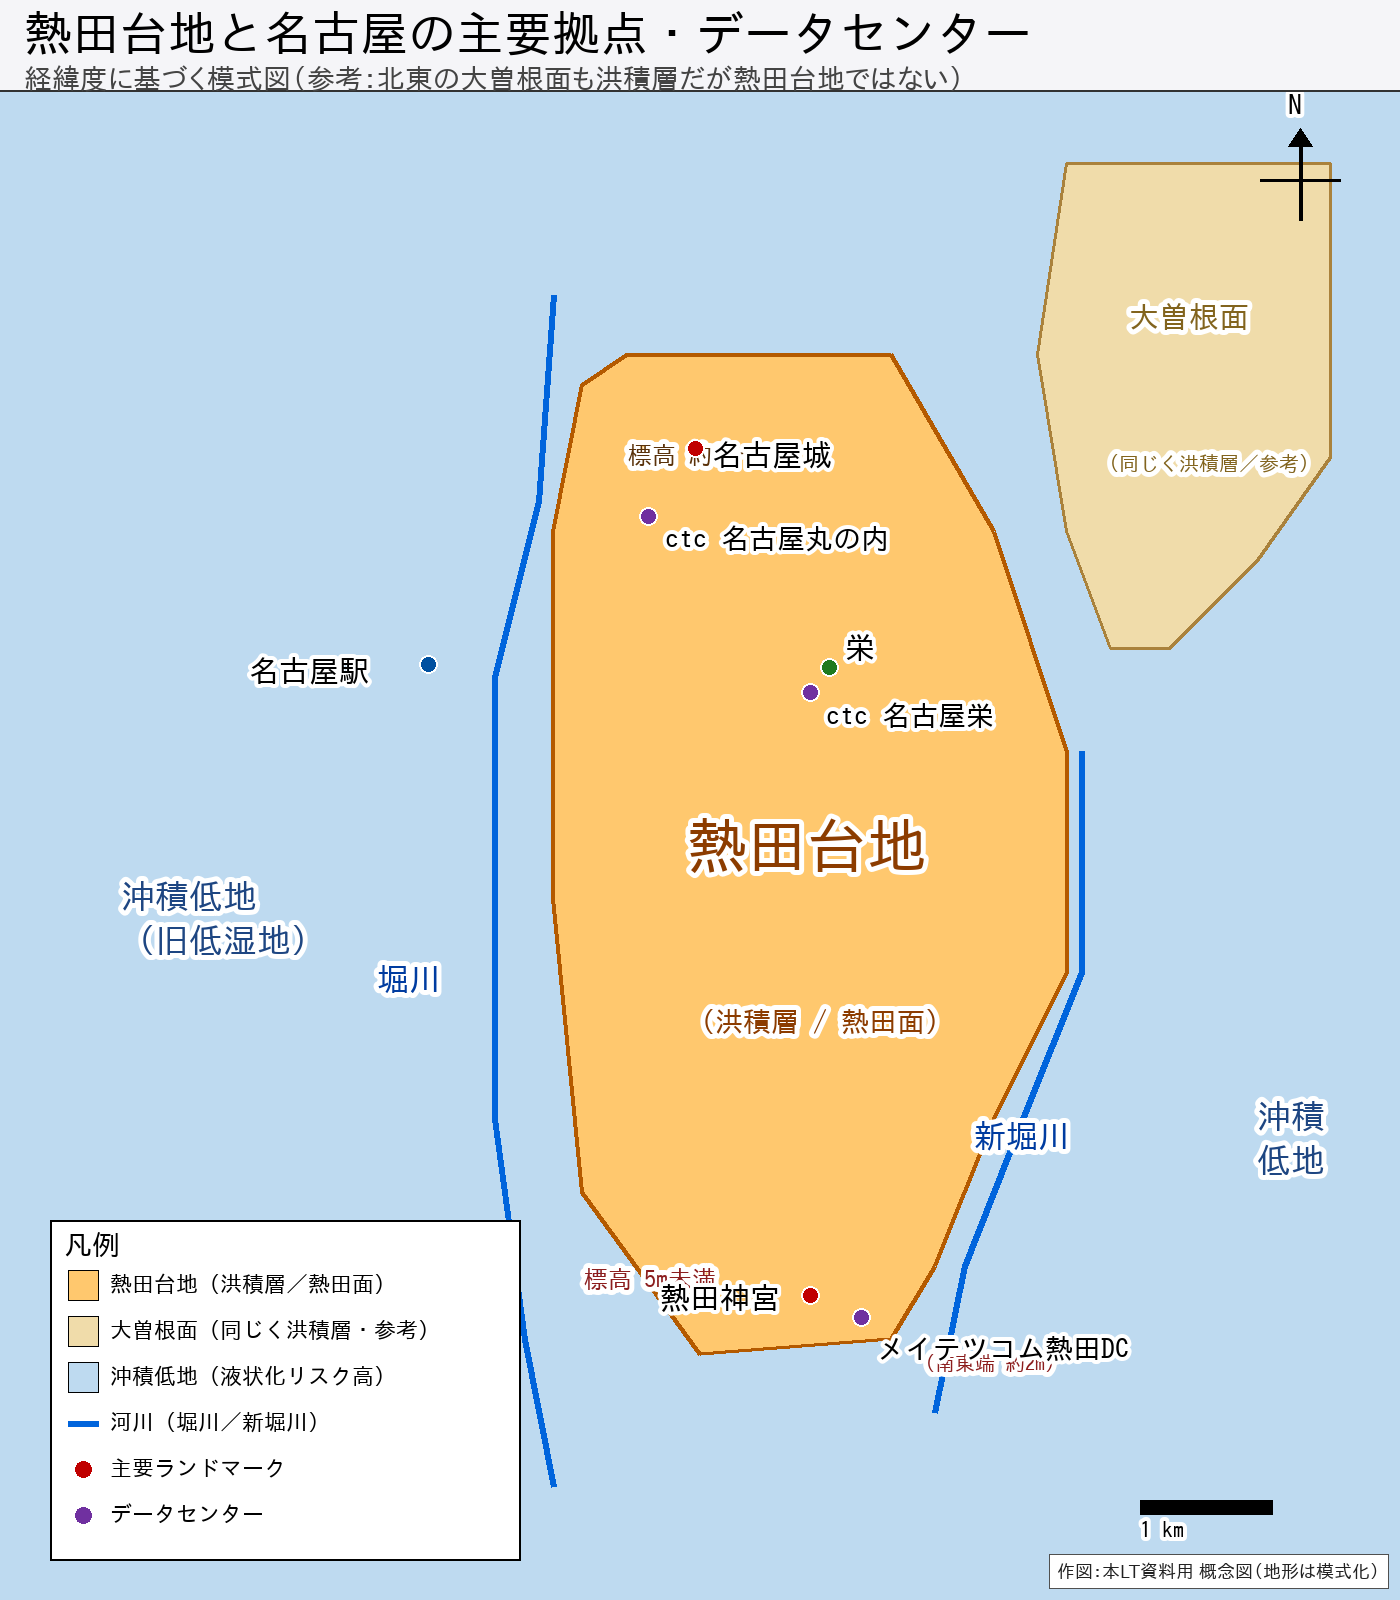
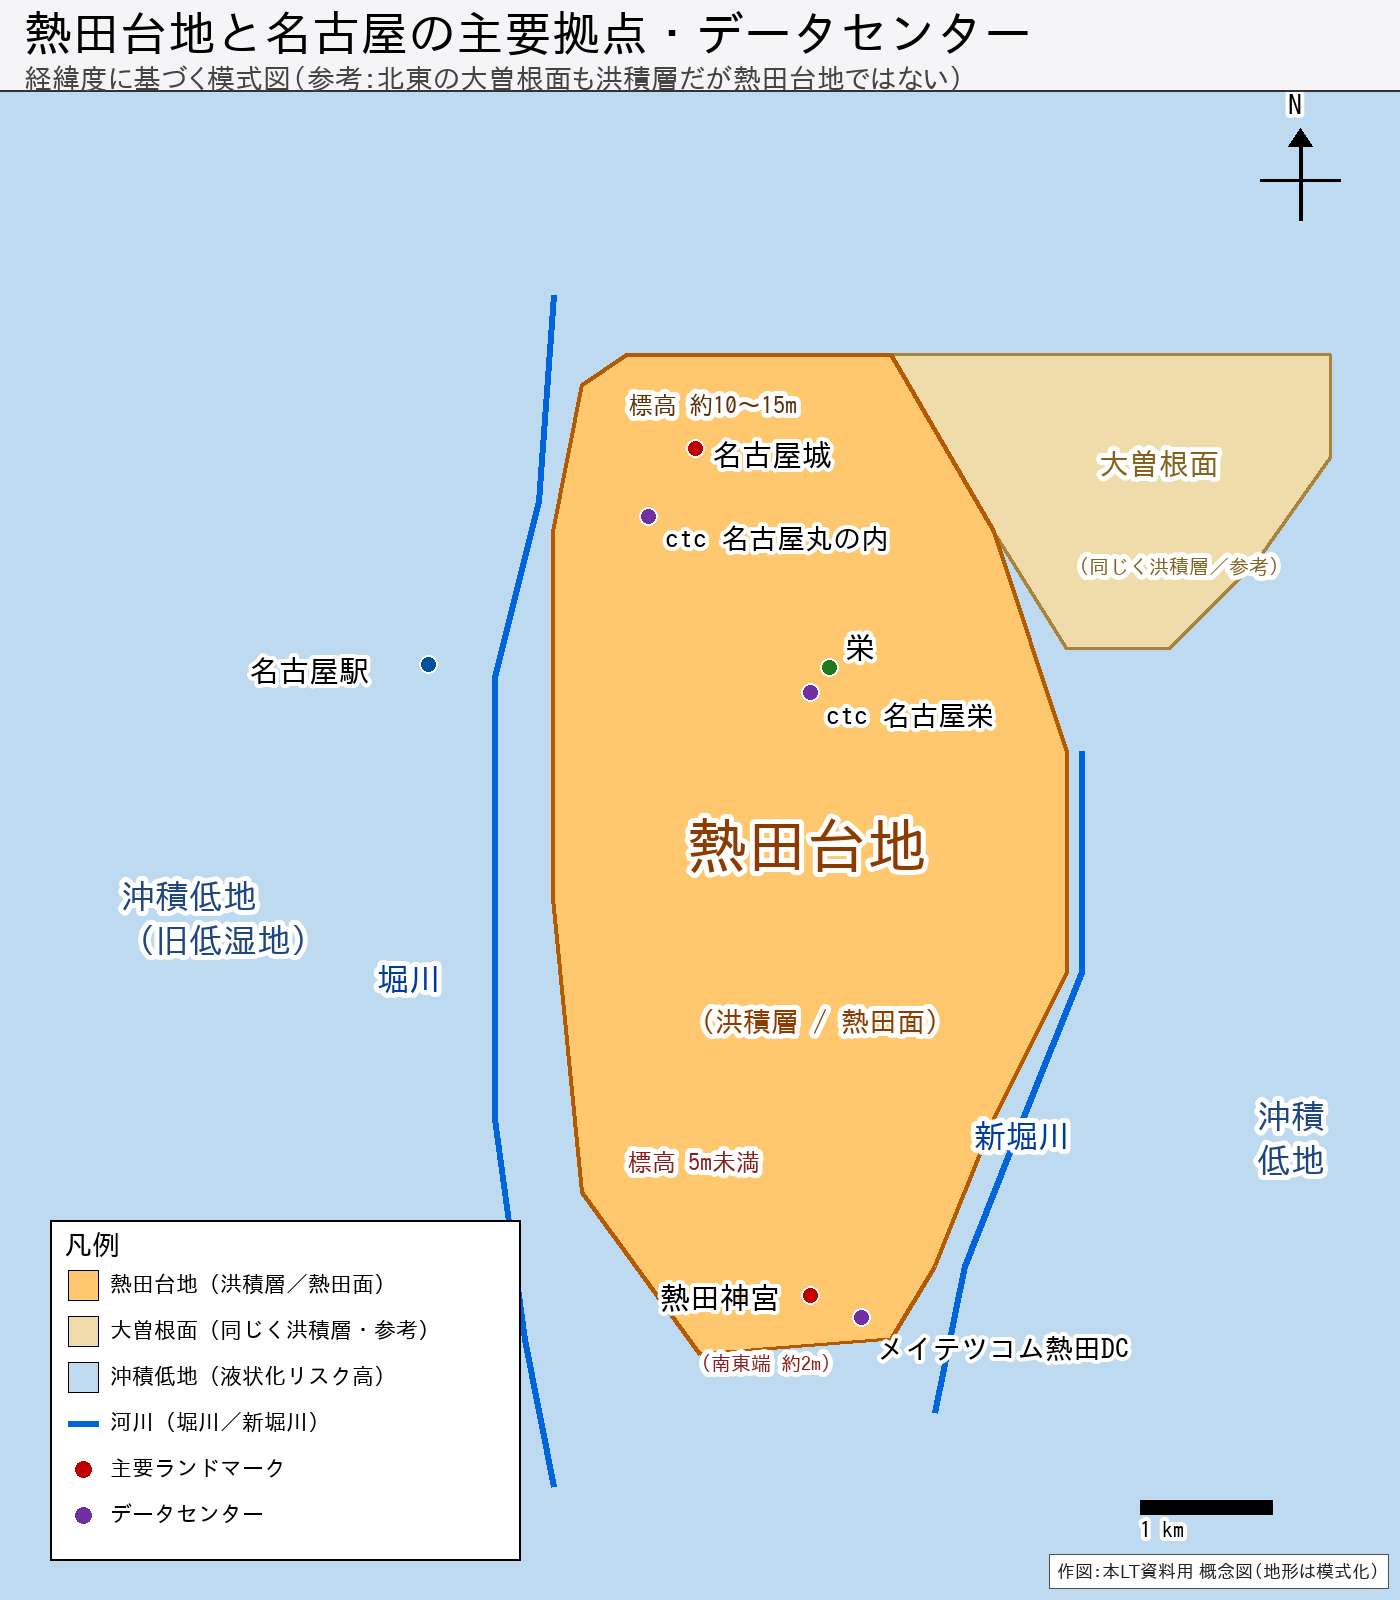
地図修正：大曽根面を熱田台地に隣接させ、標高ラベルの重なりを解消
- OZONE_POLYGON を熱田台地NE角 (35.192, 136.913) から接続させ、
  大曽根面の北端ラインを熱田台地の北端（lat 35.192）と揃える
- 大曽根面ラベルをポリゴン内中央付近に移動
- 標高表示ラベル（約10〜15m / 5m未満 / 南東端 約2m）の位置を
  ランドマーク・DCラベルと重ならない位置に再配置

https://claude.ai/code/session_01AiUGM1aSD6c23eo2xiZBRn

diff --git a/scripts/generate_maps.py b/scripts/generate_maps.py
@@ -78,15 +78,16 @@ PLATEAU_POLYGON = [
 ]
 
 # 大曽根面（熱田台地ではないが、同じく洪積層）— 参考として淡色で表示
+# 熱田台地（熱田面）のNE角 (35.192, 136.913) と接するように設定。
+# 北端ラインは熱田台地の北端 (lat 35.192) と同じ。
 OZONE_POLYGON = [
-    (35.205, 136.925),
-    (35.205, 136.943),
+    (35.192, 136.913),   # 熱田台地NE角と共有（接点）
+    (35.192, 136.943),   # 北端（熱田台地と同じ緯度）
     (35.185, 136.943),
     (35.178, 136.938),
     (35.172, 136.932),
-    (35.172, 136.928),
-    (35.180, 136.925),
-    (35.192, 136.923),
+    (35.172, 136.925),
+    (35.180, 136.920),   # 熱田台地東側境界上の点と共有
 ]
 
 LANDMARKS = [
@@ -222,20 +223,23 @@ def render_topographic_map():
     draw_label(draw, 35.150, 136.908, "（洪積層 / 熱田面）",
                get_font(28, bold=True), (140, 60, 0), offset=(-130, 35))
 
-    # 大曽根面ラベル（熱田台地ではない、参考表示）
-    draw_label(draw, 35.195, 136.934, "大曽根面",
+    # 大曽根面ラベル（熱田台地ではない、参考表示）— ポリゴン内中央付近に配置
+    draw_label(draw, 35.185, 136.932, "大曽根面",
                get_font(30, bold=True), (130, 100, 30), offset=(-70, -10))
-    draw_label(draw, 35.187, 136.934, "（同じく洪積層／参考）",
+    draw_label(draw, 35.180, 136.932, "（同じく洪積層／参考）",
                get_font(20, bold=True), (130, 100, 30), offset=(-100, 25))
 
-    # 標高表示（台地内・北部 / 南部）
+    # 標高表示（台地内・北部 / 南部）— ランドマークラベルと重ならない位置に配置
     elev_font = get_font(24, bold=True)
-    draw_label(draw, 35.183, 136.905, "標高 約10〜15m",
-               elev_font, (90, 50, 10), offset=(-145, -45))
-    draw_label(draw, 35.130, 136.902, "標高 5m未満",
+    # 北部：名古屋城・ctcラベルより上（北端近く）に配置
+    draw_label(draw, 35.190, 136.904, "標高 約10〜15m",
+               elev_font, (90, 50, 10), offset=(-130, 8))
+    # 南部：熱田神宮ラベルより上の中央付近に配置
+    draw_label(draw, 35.138, 136.905, "標高 5m未満",
                elev_font, (140, 30, 30), offset=(-145, 0))
+    # 南東端：DCラベルと重ならないよう左側に配置
     draw_label(draw, 35.126, 136.913, "（南東端 約2m）",
-               get_font(20, bold=True), (140, 30, 30), offset=(24, 28))
+               get_font(20, bold=True), (140, 30, 30), offset=(-200, 28))
 
     # 低地ラベル（西・東）
     lowland_font = get_font(34, bold=True)
